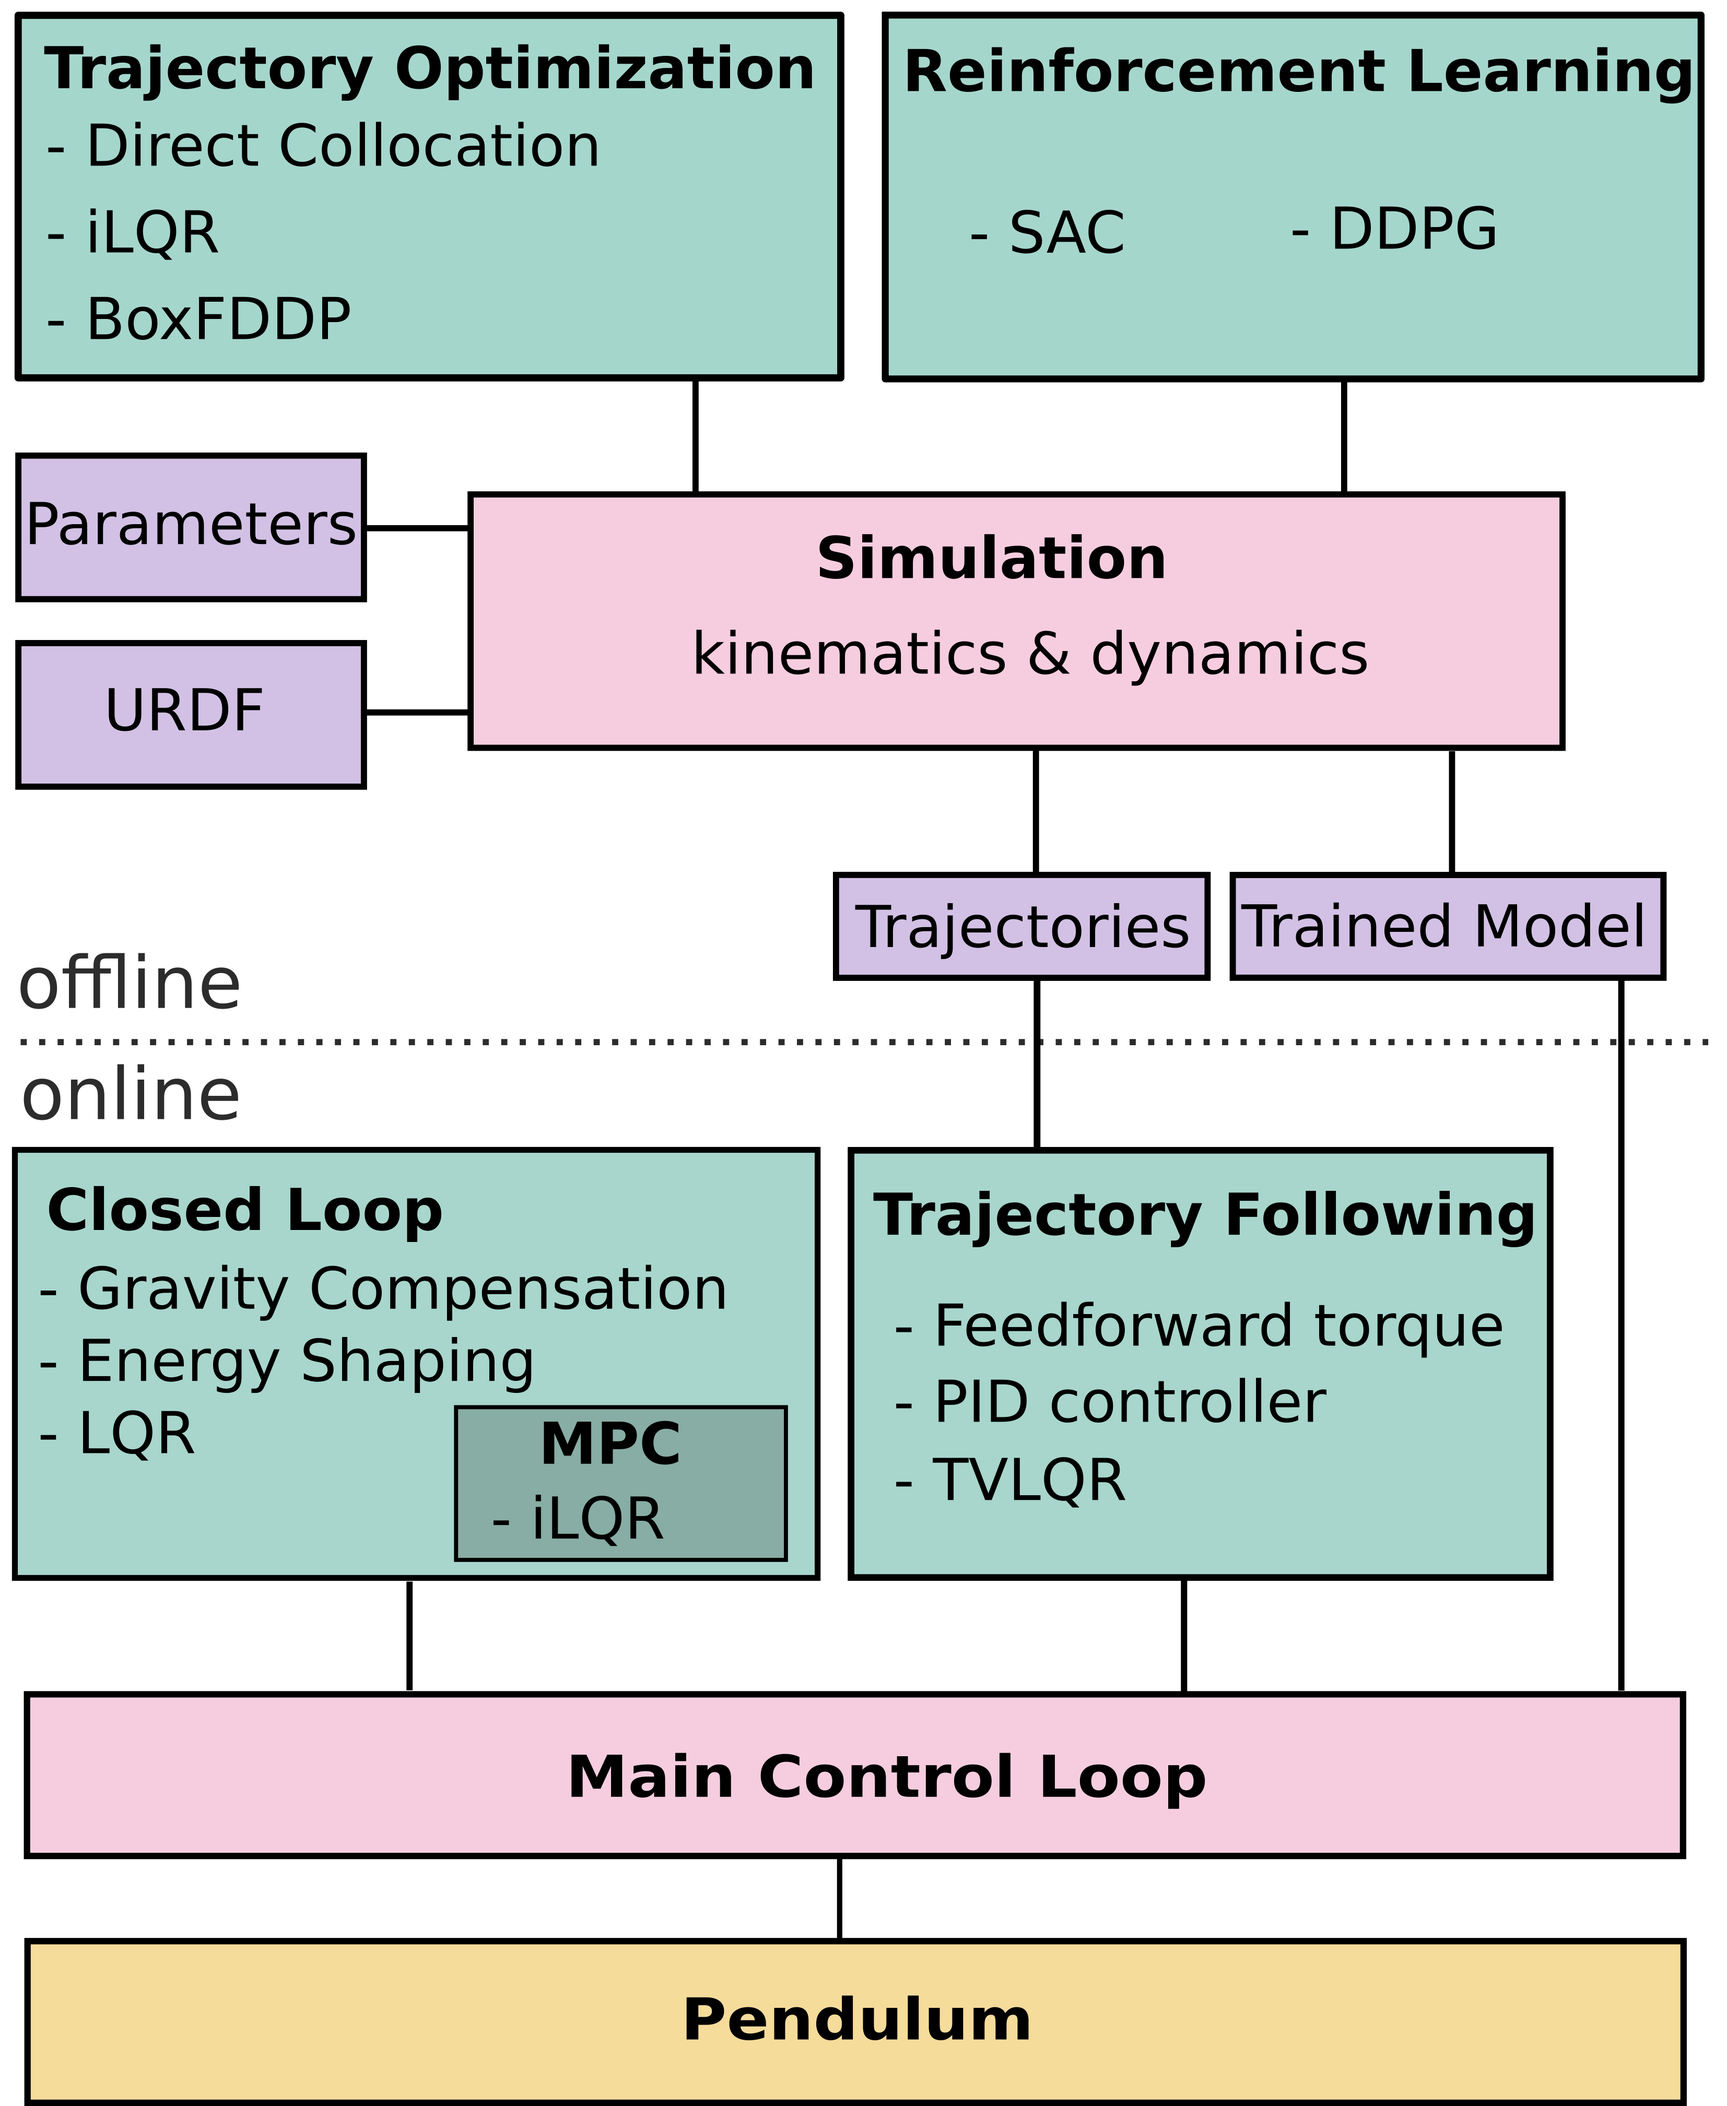
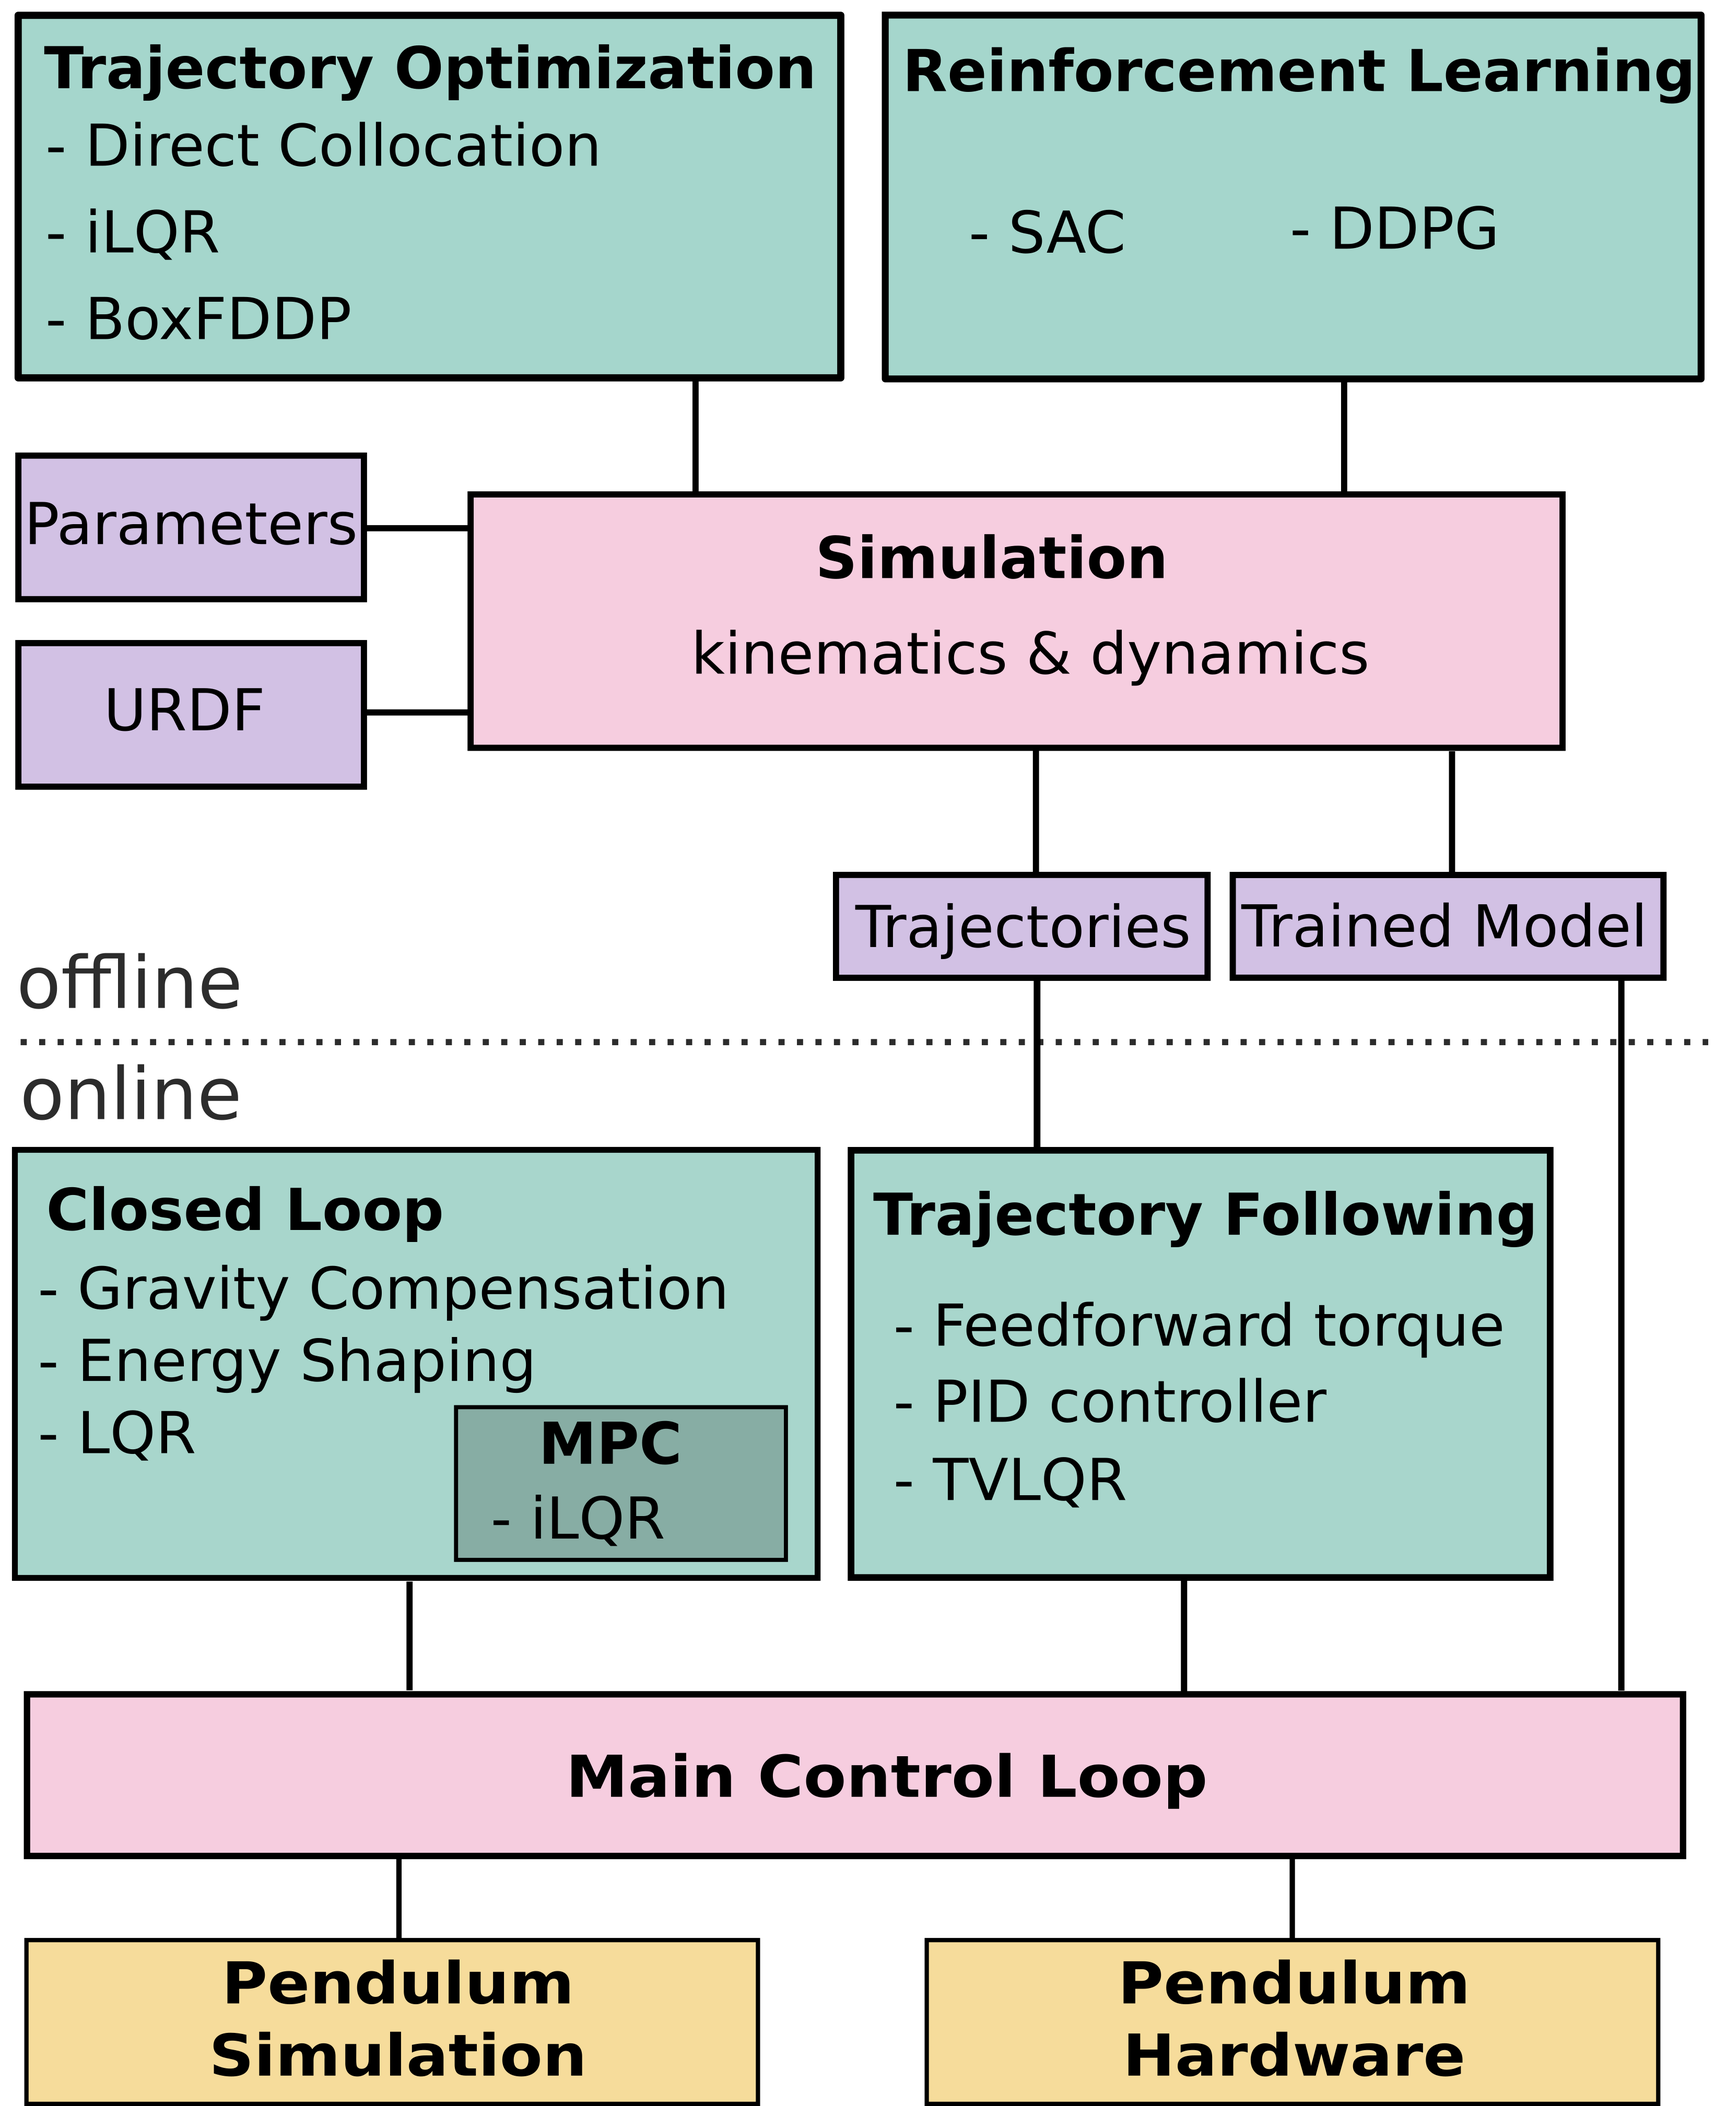
addressed the comments from @ricopicone in the paper

diff --git a/paper/paper.md b/paper/paper.md
@@ -110,7 +110,7 @@ $$I\ddot{\theta} + b\dot{\theta} + c_f \text{sign}(\dot{\theta}) + mgl \sin(\the
 
 where
 
-- $\theta$, $\dot{\theta}$, $\ddot{\theta}$ are the angular displacement, angular velocity and angular acceleration of the pendulum. $\theta=0$ means the pendulum is at its stable fixpoint (i.e. hanging down).
+- $\theta$, $\dot{\theta}$, $\ddot{\theta}$ are the angular displacement, angular velocity and angular acceleration of the pendulum in counter-clockwise direction. $\theta=0$ means the pendulum is at its stable fixpoint (i.e. hanging down).
 - $I$ is the inertia of the pendulum. For a point mass: $I=ml^2$
 - $m$ mass of the pendulum
 - $l$ length of the pendulum
@@ -119,7 +119,7 @@ where
 - $g$ gravity (positive direction points down)
 - $\tau$ torque applied by the motor
 
-We provide a pendulum plant model which can be used for simulation and real time control. Also, a system identification method is implemented which can reliably estimate the unknown pendulum parameters of the real setup.
+We provide a pendulum plant model which can be used for computing trajectories and policies without the actual hardware, simulating the execution of a controller as well as simulating the systems response during real time control. Also, a system identification method is implemented which can reliably estimate the unknown pendulum parameters of the real setup.
 
 <!--
 ## Parameter Identification
@@ -158,23 +158,31 @@ The control methods that are currently implemented in this library (see also \au
 - Iterative Linear Quadratic Regulator (iLQR) [@weiwei2004iterative]
 - Feasibility driven Differential Dynamic Programming (FDDP) [@mastalli2020crocoddyl]
 
+The optimization is done with a simulation of the pendulum dynamics.
+
 **Trajectory following** controllers act on a precomputed trajectory and ensure that the system follows the trajectory properly. The trajectory following controllers implemented in this project are:
 
 - Feedforward torque
 - Proportional-integral-derivative (PID) control
 - Time-varying Linear Quadratic Regulator (TVLQR)
 
-**Closed Loop Controllers** or feedback controllers take the state of the system as input and ouput a control signal. Because they are able to react to the current state, they can cope with perturbations during the execution. The following feedback controllers are implemented:
+Feedforward and PID controller funtion model independent, while the TVLQR controller utilizes knowledge about the pendulum model.
+
+**Closed Loop Controllers** or feedback controllers take the state of the system as input and ouput a control signal. In contrast to trajectory optimization, these controllers do not compute just a single trajectory. Instead, they react to the current state of the pendulum and because of this they can cope with perturbations during the execution. The following feedback controllers are implemented:
 
 - Energy Shaping
 - Linear Quadratic Regulator (LQR)
 - Gravity Compensation
 - Model Predictive Control (MPC) with iLQR
 
+All of these controllers utilize model knowledge and the MPC controller uses a simulation of the pendulum to optimize with a time horizon.
+
 **Reinforcement Learning** (RL) can be used to learn a policy on the state space of the robot. The policy, which has to be trained beforehand, receives a state and outputs a control signal like a feedback controller. The simple pendulum is can be formulated as a RL problem with two continuous inputs and one continuous output. Similar to the cost function in trajectory optimization, the policy is trained with a reward function. The following RL algorithms are implemented:
 
 - Soft Actor Critic (SAC) [@haarnoja2018soft]
 - Deep Deterministic Policy Gradient (DDPG) [@lillicrap2019continuous]
+
+Currently, learning is possible in the simulation environment.
 
 The implementations of direct collocation and TVLQR make use of Drake [@drake], iLQR makes use of only the symbolic library of Drake, FDDP makes use of Crocoddyl [@mastalli2020crocoddyl], SAC uses stable-baselines3 [@stable-baselines3] and DDPG is implemented in tensorflow [@tensorflow2015-whitepaper]. The other methods use only standard libraries.
 This repository is designed to welcome contributions in form of novel optimization methods/controllers/learning algorithms to extend this list.
@@ -183,11 +191,11 @@ To get an understanding of the functionality of the implemented controllers they
 
 ![Energy Shaping Controller and DDPG Policy. \label{fig:controller_plots}](figures/energy_and_ddpg.png){#id .class height=600px}
 
-Furthermore, the swing-up controllers can be benchmarked, where it is evaluated how fast, efficient, consistent, stable and sensitive the controller is during the swing-up. See figure \autoref{fig:benchmark} for a comparison of the different controllers' benchmark results.
+Furthermore, the swing-up controllers can be benchmarked in simulation, where it is evaluated how fast, efficient, consistent, stable and sensitive the controller is during the swing-up. See figure \autoref{fig:benchmark} for a comparison of the different controllers' benchmark results.
 
 The benchmark criteria are:
 
-- **Speed** : The inverse of the time the controller needs to process state input and return a control signal (hardware dependent).
+- **Frequency** : The inverse of the time the controller needs to process state input and return a control signal (hardware dependent).
 - **Swingup time** : The time it takes for the controller to swing-up the pendulum from the lower fixpoint to the upper fixpoint.
 - **Energy consumption**: The energy the controller uses during the swingup motion and holding the pendulum in position afterwards.
 - **Smoothness**: Measures how much the controller changes the control output during execution.
